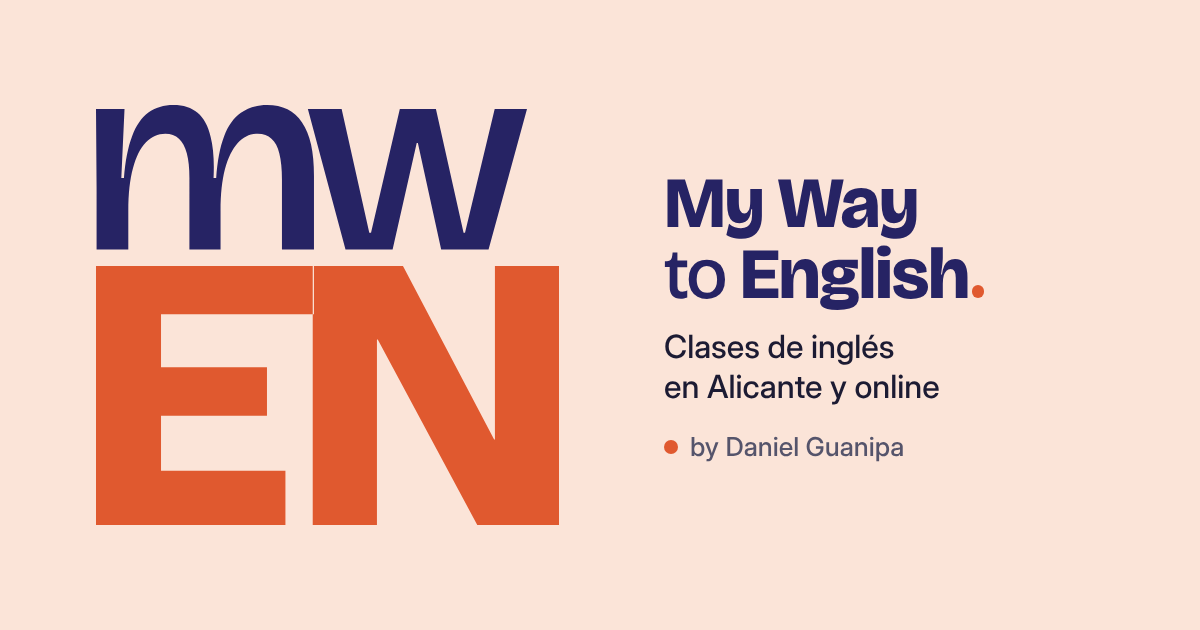
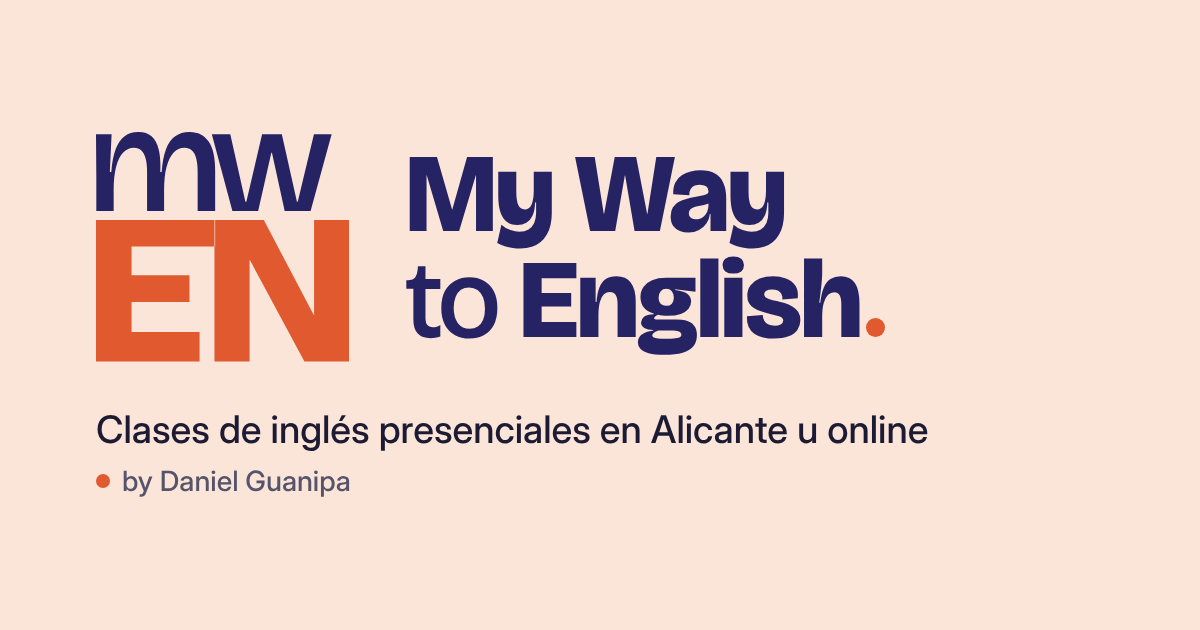
Use the full isologo everywhere and clarify in-person vs online
- Logo is now isotipo (mw2en) + the complete 'My Way to English.'
  wordmark side by side, identical in header, mobile menu and footer
  (inverse colours on dark) and in the Open Graph image
- Wording: 'presenciales en Alicante u online' in the title, meta
  description, hero eyebrow, footer, OG image/alt and facts strip, so
  online is not read as being in Alicante
- Tests for the isologo and the wording

Claude-Session: https://claude.ai/code/session_01VyVuVHnwiu4gjed8E8c498

Changed region(s): [[0.0617, 0.1508, 0.8325, 0.8444]]

diff --git a/tests/e2e/content.spec.ts b/tests/e2e/content.spec.ts
@@ -81,3 +81,28 @@ test.describe('sin JavaScript', () => {
     await expect(page.locator('#planes noscript, #planes .plans__noscript').first()).toBeAttached();
   });
 });
+
+test('el isologo (isotipo + logotipo completo) es igual en cabecera, menú y pie', async ({ page }) => {
+  await page.goto('/');
+  for (const scope of ['header .header__inner .logo', 'footer .logo']) {
+    const logo = page.locator(scope);
+    await expect(logo).toHaveCount(1);
+    await expect(logo.locator('.logo__mark')).toHaveCount(1);
+    await expect(logo.locator('.logo__wordmark')).toContainText('My Way');
+    await expect(logo.locator('.logo__wordmark')).toContainText('English');
+    await expect(logo.locator('.visually-hidden')).toContainText('My Way to English');
+  }
+  // El menú móvil usa el mismo conjunto.
+  await expect(page.locator('#menu-movil .logo .logo__mark')).toHaveCount(1);
+  await expect(page.locator('#menu-movil .logo .logo__wordmark')).toHaveCount(1);
+});
+
+test('queda claro que «online» no es en Alicante: presenciales en Alicante u online', async ({ page }) => {
+  await page.goto('/');
+  await expect(page).toHaveTitle(/Inglés presencial en Alicante u online/);
+  const desc = await page.locator('meta[name="description"]').getAttribute('content');
+  expect(desc).toContain('presenciales en Alicante u online');
+  await expect(page.locator('.hero .eyebrow')).toHaveText('Clases de inglés presenciales en Alicante u online');
+  const html = await page.content();
+  expect(html).not.toMatch(/Alicante y online/);
+});

diff --git a/src/config/site.ts b/src/config/site.ts
@@ -22,9 +22,10 @@ export const site = {
   url: 'https://englishweb-mu.vercel.app',
   base: '/',
   locale: 'es_ES',
-  title: 'Clases de inglés en Alicante y online · My Way to English',
+  // ≤ 60 caracteres. «Presencial en Alicante u online» deja claro que online no es en Alicante.
+  title: 'Inglés presencial en Alicante u online · My Way to English',
   description:
-    'Clases de inglés individuales, en pareja o en grupos de hasta 4 en Alicante y online, con un plan adaptado a cómo aprendes.',
+    'Clases de inglés individuales, en pareja o en grupos de hasta 4, presenciales en Alicante u online, con un plan adaptado a cómo aprendes.',
 };
 
 /** Título para páginas interiores: «{Página} · My Way to English». */
@@ -70,7 +71,7 @@ export const pricingTerms = ''; // PENDIENTE
 export const facts = [
   { title: 'Máx. 4 alumnos por grupo', detail: 'Grupos pequeños para seguir a cada alumno.' },
   { title: 'Desde 3 horas a la semana', detail: 'Continuidad semana a semana.' },
-  { title: 'En Alicante u online', detail: 'Presencial en Alicante o por videollamada.' },
+  { title: 'Presencial u online', detail: 'En persona en Alicante, o por videollamada desde donde estés.' },
   { title: 'Un mismo profesor, siempre', detail: 'Cada semana trabajas conmigo.' },
 ];
 

diff --git a/README.md b/README.md
@@ -100,7 +100,7 @@ Los precios de pareja (preguntas y tarjetas de plan) no son marcadores: los calc
 | Fotografías (portada, biografía, galería) | `src/config/photos.ts` |
 | Fases del método (Diagnóstico, Diseño, Adaptación, Consolidación) | `src/config/approach.ts` |
 | Enlaces del menú | `src/config/nav.ts` |
-| Logotipo mw2en (trazados originales de Daniel) | `src/config/logo.ts` (trazados), `src/components/Logo.astro` (colores: `--logo-mw`, `--logo-en`) |
+| Isologo = isotipo mw2en + logotipo «My Way to English.» (igual en cabecera, menú, pie y OG) | `src/components/Logo.astro`; trazados del isotipo (de Daniel, sin modificar) en `src/config/logo.ts`; tamaño con `--wm-size`, colores con `--logo-mw` / `--logo-en` |
 | Icono de pestaña/móvil e imagen para compartir | `public/favicon.svg`, `favicon-32.png`, `apple-touch-icon.png`, `icon-512.png`, `og-image.png` |
 | Textos de cada sección | `src/components/*.astro` |
 | Política de privacidad y aviso legal | `src/pages/privacidad.astro`, `src/pages/aviso-legal.astro` (**pendientes**) |
